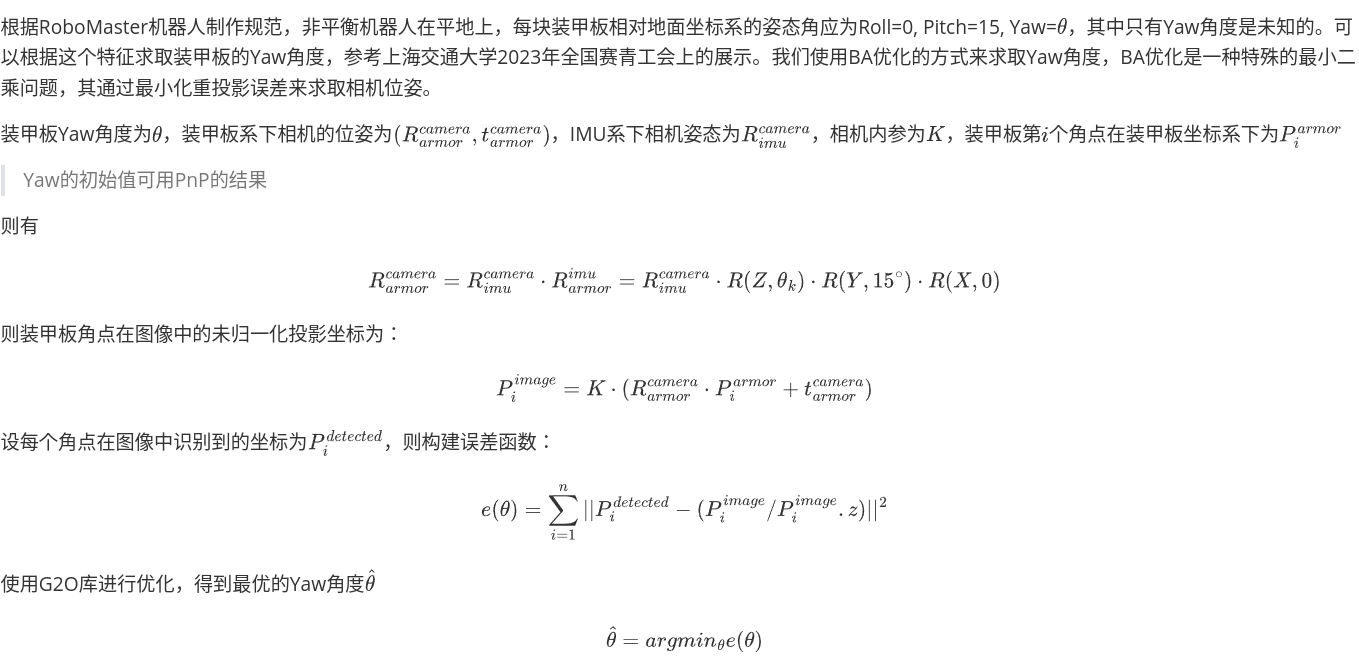
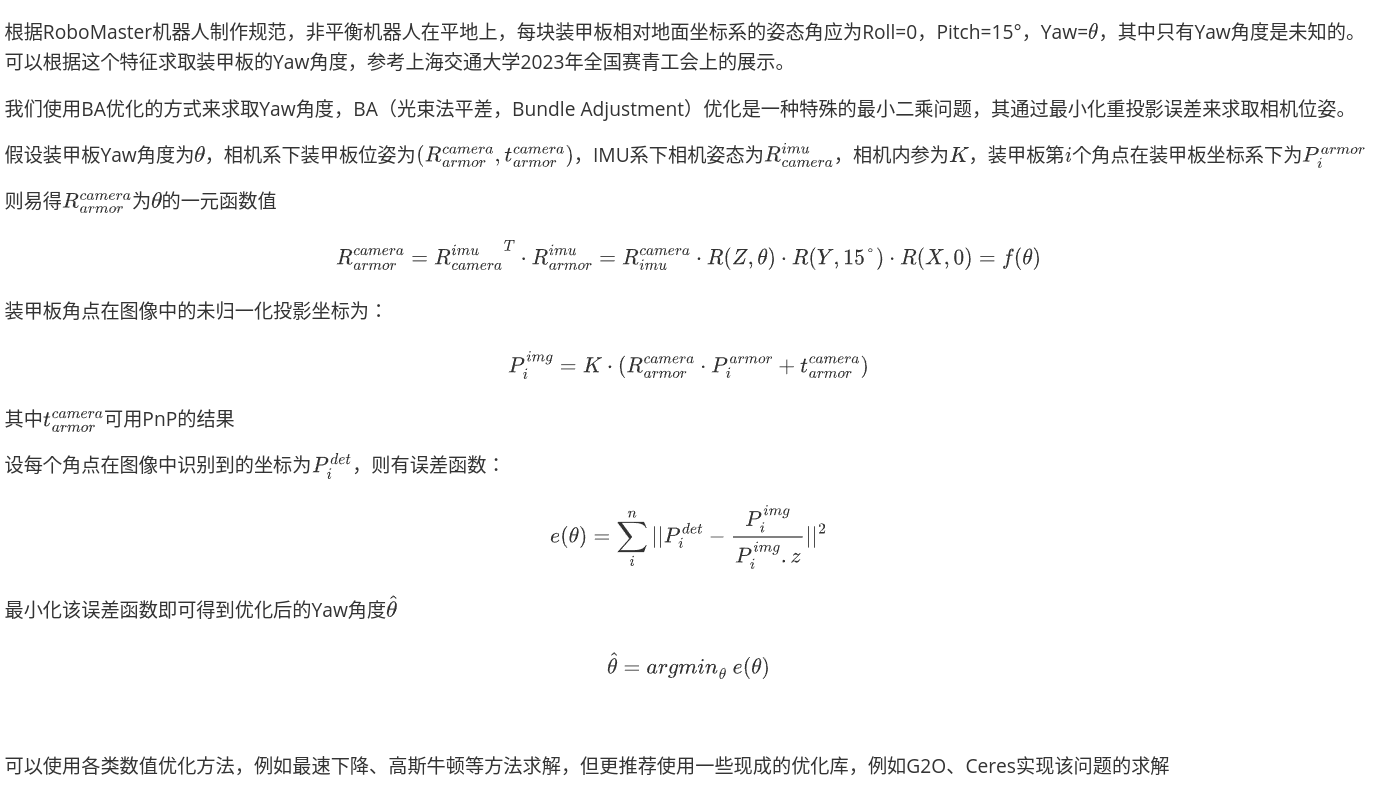
fix typos in description of BA

diff --git a/rm_auto_aim/armor_detector/src/light_corner_corrector.cpp b/rm_auto_aim/armor_detector/src/light_corner_corrector.cpp
@@ -101,6 +101,10 @@ SymmetryAxis LightCornerCorrector::findSymmetryAxis(const cv::Mat &gray_img, con
   // Normalize the axis
   axis = axis / cv::norm(axis);
 
+  if (axis.y > 0) {
+    axis = -axis;
+  }
+
   return SymmetryAxis{.centroid = centroid, .direction = axis, .mean_val = mean_val};
 }
 
@@ -141,7 +145,7 @@ cv::Point2f LightCornerCorrector::findCorner(const cv::Mat &gray_img,
     for (float x = x0 + dx, y = y0 + dy; distance(x, y, x0, y0) < L * (END - START);
          x += dx, y += dy) {
       cv::Point2f cur = cv::Point2f(x, y);
-      if (!inImage(cv::Point(cur))) {
+      if (!inImage(cur)) {
         break;
       }
 

diff --git a/rm_auto_aim/armor_detector/README.md b/rm_auto_aim/armor_detector/README.md
@@ -110,3 +110,32 @@
 ## BA优化
 
 ![](docs/BA.png)
+
+<!-- 根据RoboMaster机器人制作规范，非平衡机器人在平地上，每块装甲板相对地面坐标系的姿态角应为Roll=0，Pitch=15°，Yaw=$\theta$，其中只有Yaw角度是未知的。可以根据这个特征求取装甲板的Yaw角度，参考上海交通大学2023年全国赛青工会上的展示。
+
+我们使用BA优化的方式来求取Yaw角度，BA（光束法平差，Bundle Adjustment）优化是一种特殊的最小二乘问题，其通过最小化重投影误差来求取相机位姿。
+
+假设装甲板Yaw角度为$\theta$，相机系下装甲板位姿为$(R^{camera}_{armor},t^{camera}_{armor})$，IMU系下相机姿态为$R^{imu}_{camera}$，相机内参为$K$，装甲板第$i$个角点在装甲板坐标系下为$P^{armor}_i$
+
+则易得$R^{camera}_{armor}$为$\theta$的一元函数值
+$$
+R^{camera}_{armor} = {R^{imu}_{camera}}^T ·R^{imu}_{armor}=R^{camera}_{imu}·R(Z,\theta)·R(Y,15°)·R(X,0)=f(\theta)
+$$
+装甲板角点在图像中的未归一化投影坐标为：
+$$
+P^{img}_i=K·(R^{camera}_{armor}·P^{armor}_i+t^{camera}_{armor})
+$$
+其中$t^{camera}_{armor}$可用PnP的结果
+
+设每个角点在图像中识别到的坐标为$P^{det}_i$，则有误差函数：
+$$
+e(\theta)=\sum^{n}_{i}||P^{det}_i-\frac{P^{img}_i}{P^{img}_i.z}||^2
+$$
+最小化该误差函数即可得到优化后的Yaw角度$\hat{\theta}$
+$$
+\hat{\theta}={argmin}_{\theta} \space e(\theta)
+$$
+
+
+可以使用各类数值优化方法，例如最速下降、高斯牛顿等方法求解，但更推荐使用一些现成的优化库，例如G2O、Ceres实现该问题的求解
+ -->
